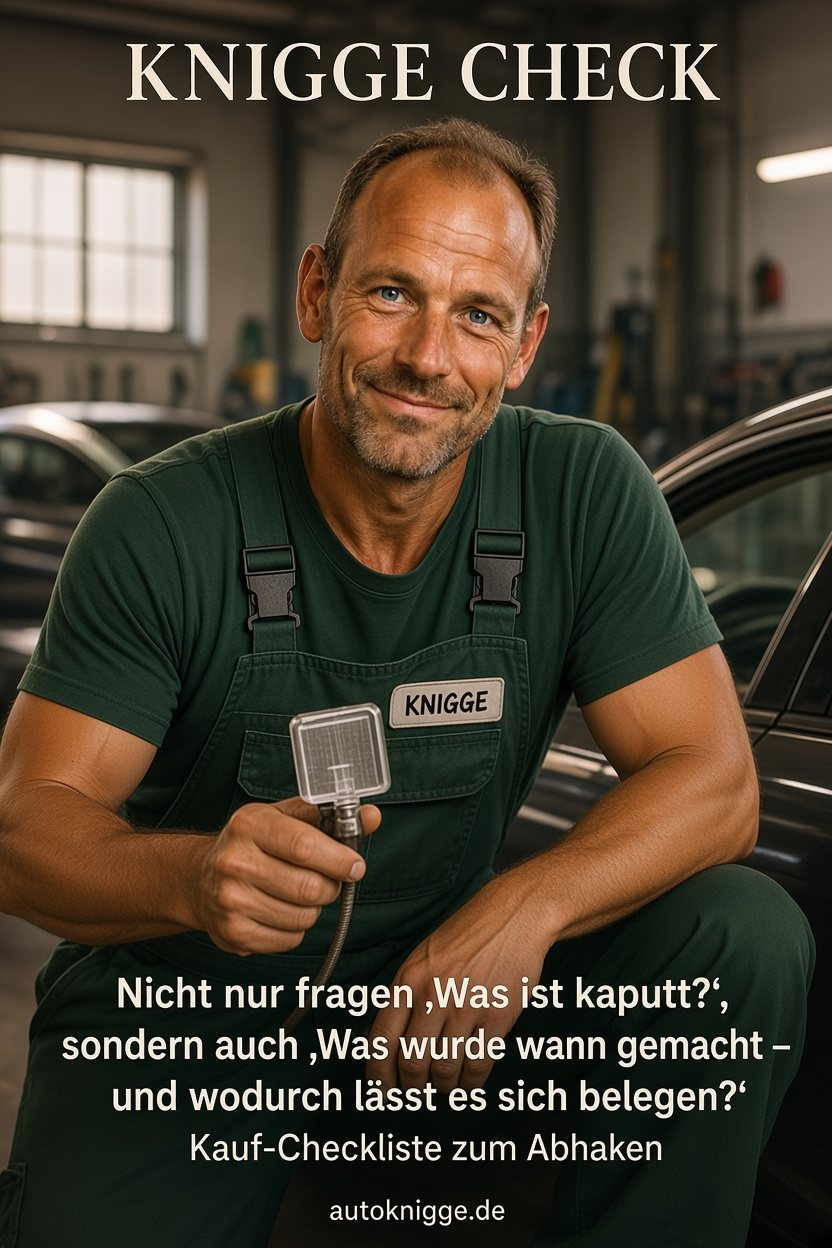
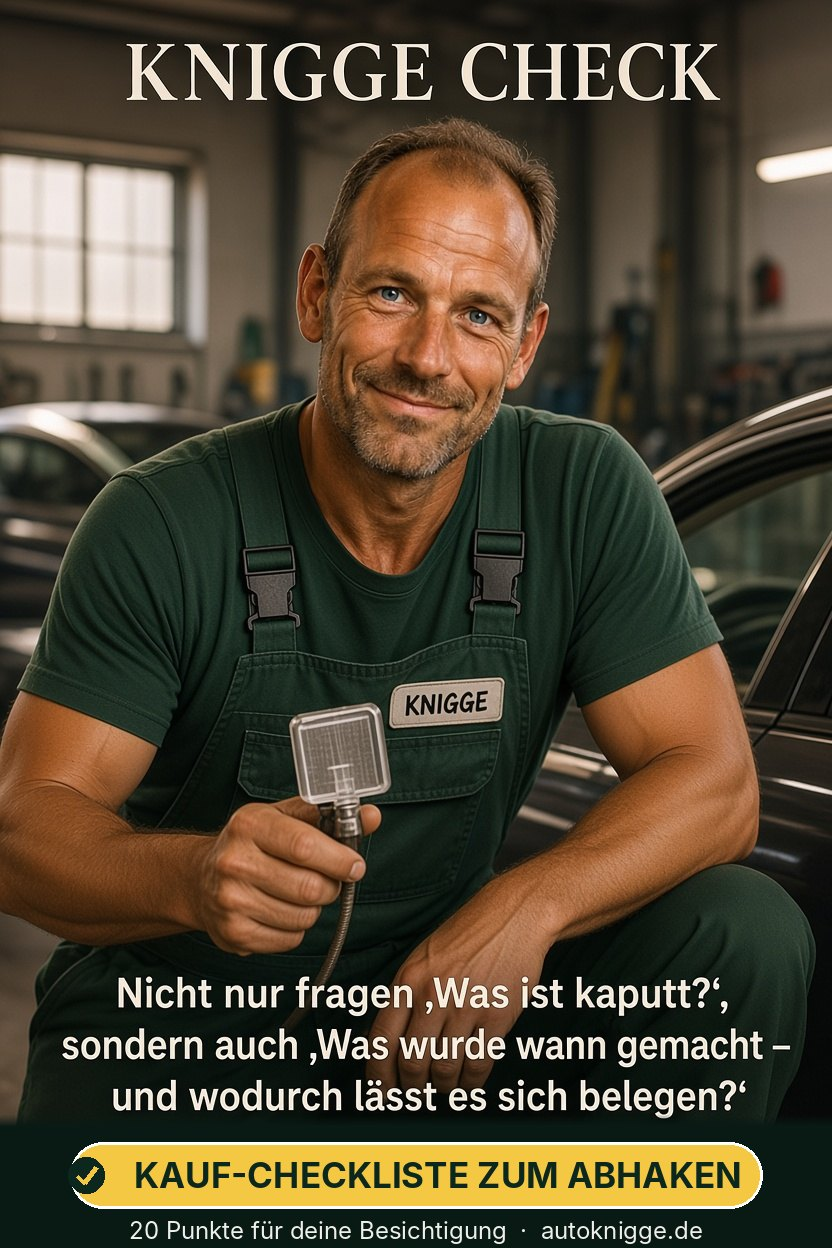
Update vom 21.10.2026 (2 Dateien)

Changed region(s): [[0.0938, 0.9062, 0.9375, 1.0], [0.0, 0.875, 0.0312, 0.9375]]

diff --git a/artikel-gebrauchtwagen-check.html b/artikel-gebrauchtwagen-check.html
@@ -90,7 +90,7 @@
 </header>
 <main><div class="wrap">
 <h1 class="wp-sr">Gebrauchtwagen-Check</h1>
-<div class="wp-hero"><img src="gebrauchtwagen-check-header.jpg?v=20261021" width="832" height="1248" alt="Knigge Check: Nicht nur fragen „Was ist kaputt?“, sondern auch „Was wurde wann gemacht – und wodurch lässt es sich belegen?“ Kauf-Checkliste zum Abhaken."></div>
+<div class="wp-hero"><img src="gebrauchtwagen-check-header.jpg?v=20261021b" width="832" height="1248" alt="Knigge Check: Nicht nur fragen „Was ist kaputt?“, sondern auch „Was wurde wann gemacht – und wodurch lässt es sich belegen?“ Kauf-Checkliste zum Abhaken."></div>
 <section class="info-card">
 <div class="check-progress" id="checkProgress">
 <div class="check-progress-bar"><div class="check-progress-fill" id="checkProgressFill" style="width:0%"></div></div>
